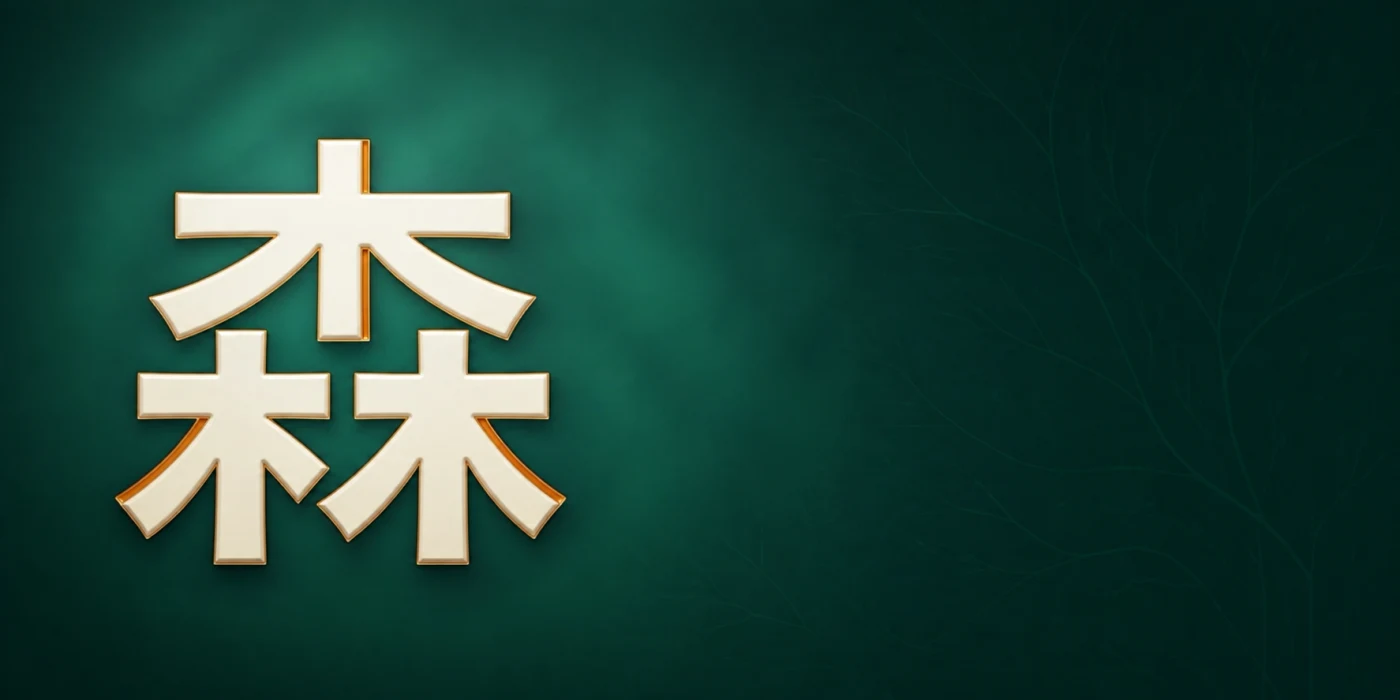
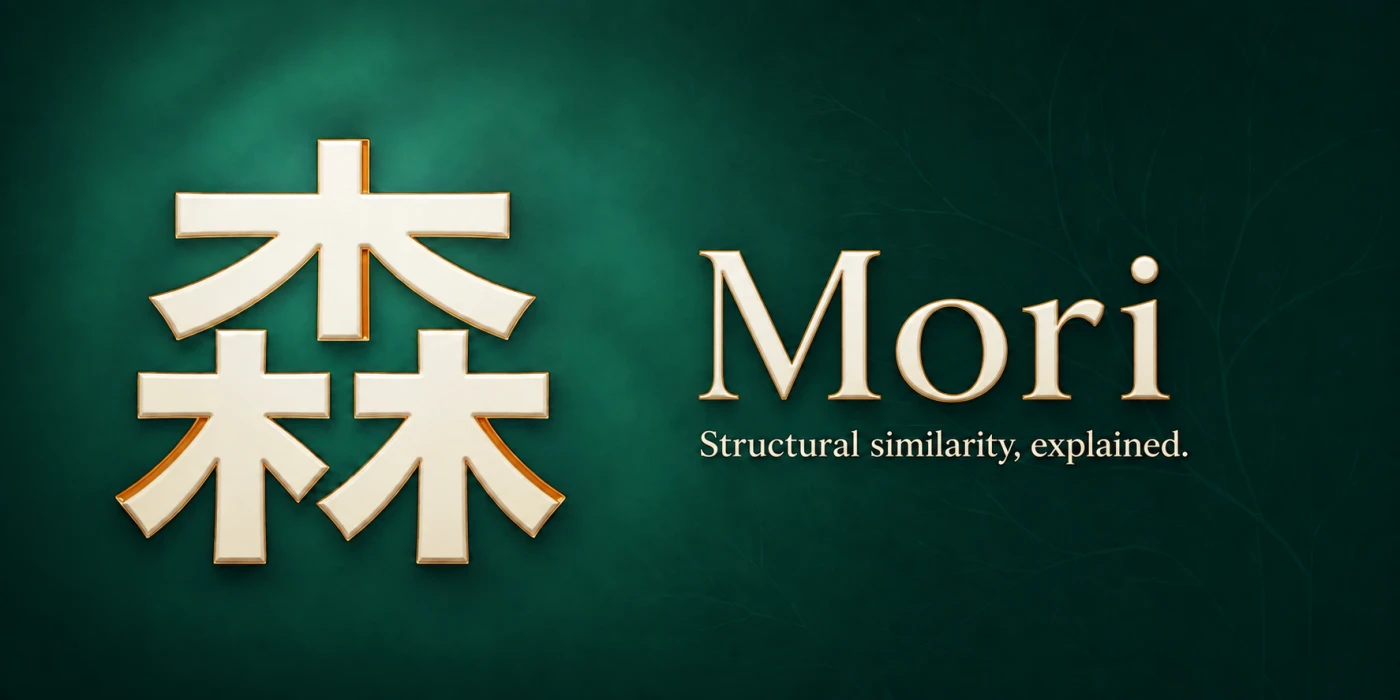
chore: refine README hero and synchronize CodeQL

diff --git a/README.md b/README.md
@@ -1,5 +1,5 @@
 <p align="center">
-  <img src="docs/assets/mori-hero.webp" alt="Mori forest-green banner with the kanji for forest" width="100%">
+  <img src="docs/assets/mori-hero.webp" alt="Mori forest-green banner with the forest kanji and the slogan Structural similarity, explained" width="100%">
 </p>
 
 # Mori
